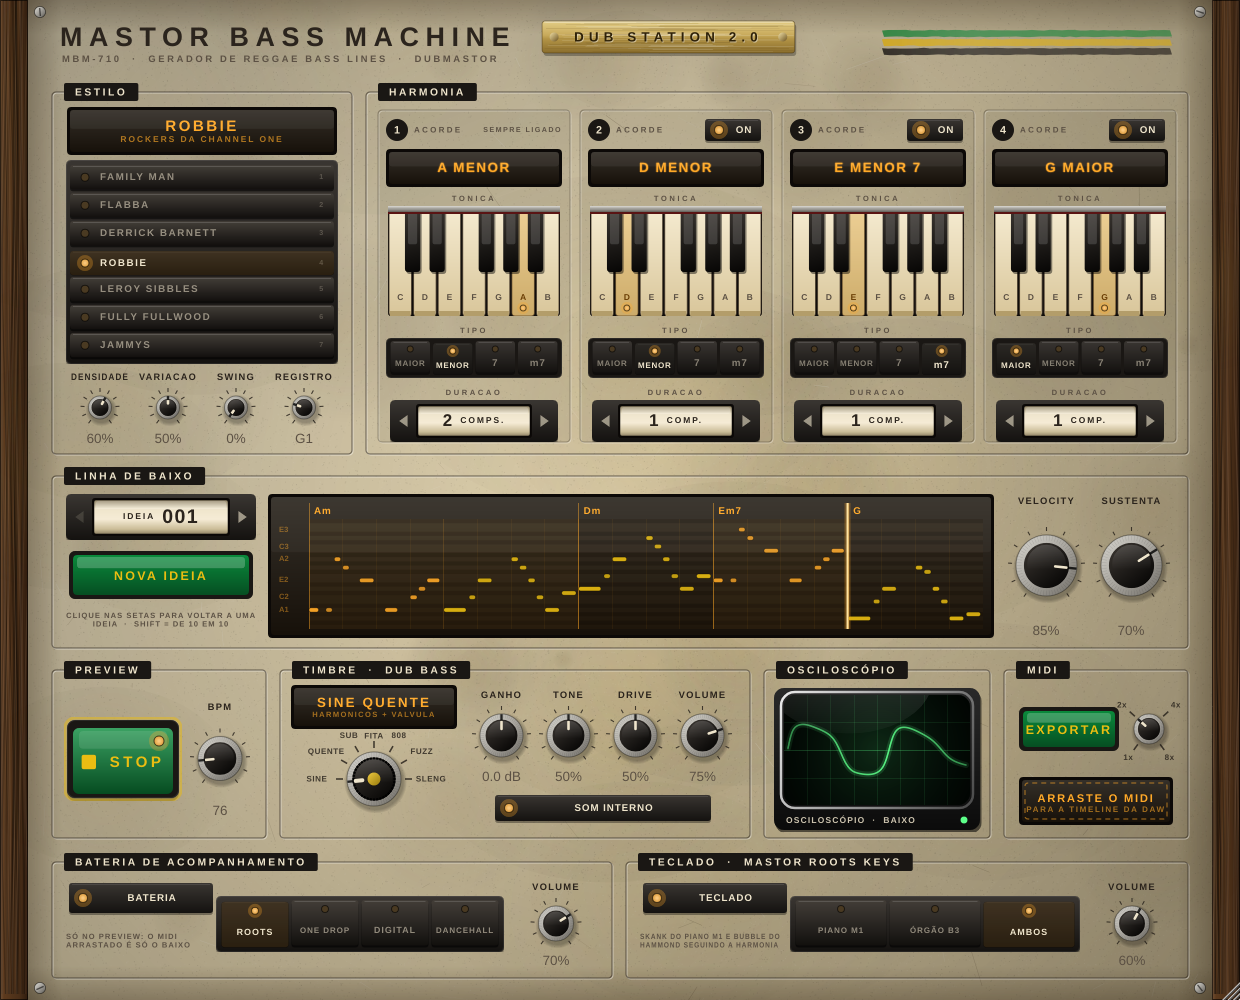
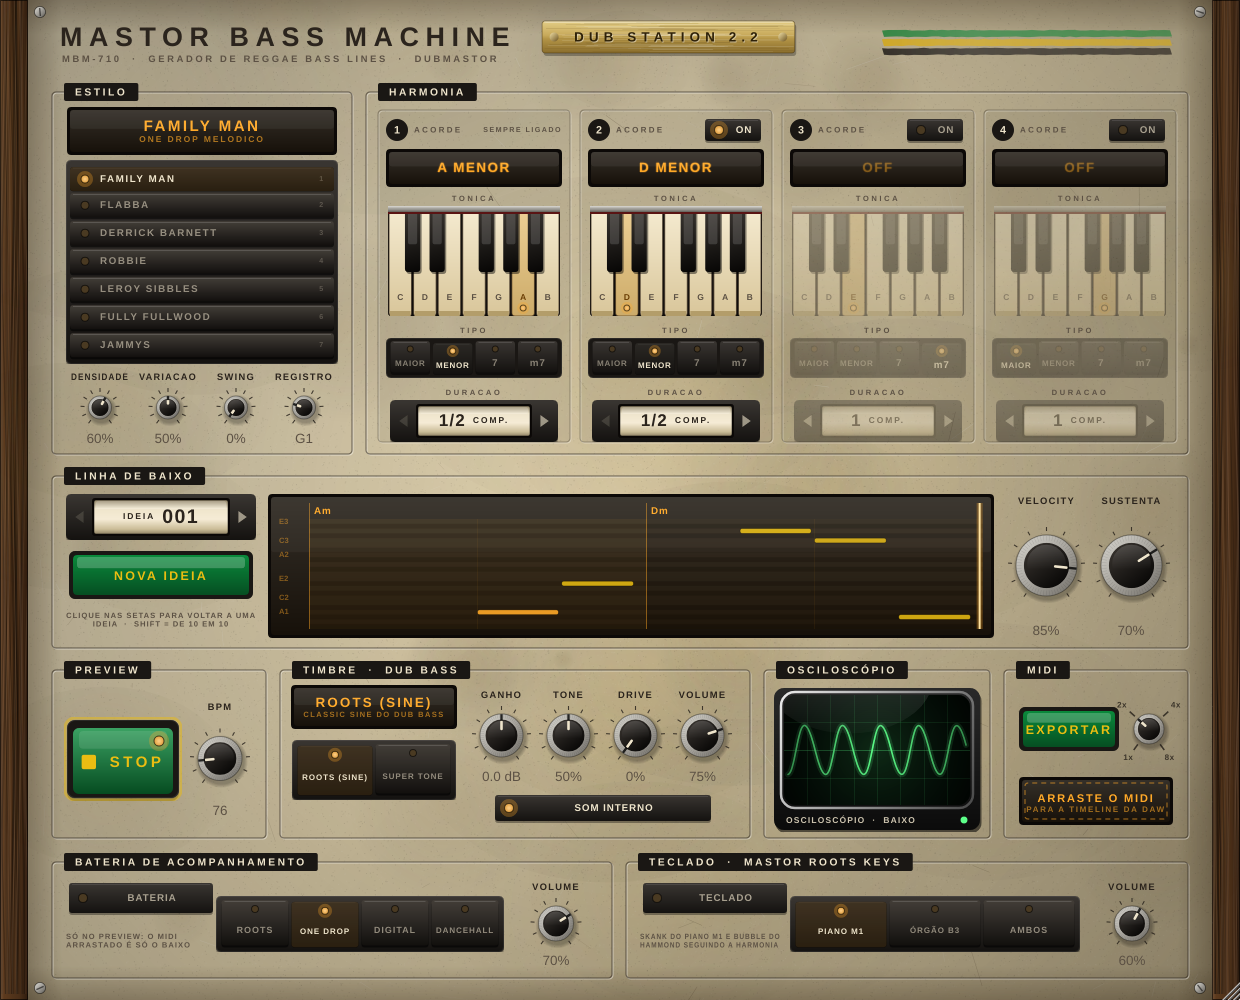
Bass Machine 2.2: preview com o Dub Bass 1.3 de fábrica, timbres Roots (Sine) e Super Tone
- Timbre do preview corrigido para os valores iniciais do Dub Bass 1.3: Classic Sine
  (Harm 2 15 %, Harm 3 8 %, Glide 20 ms), envelope 3 / 600 ms / 85 % / 180 ms,
  cutoff 900 Hz, ressonância 0,8, válvula/saturação e reverb desligados, maximizer +3 dB
- Seletor de timbre com só duas teclas: ROOTS (SINE) e SUPER TONE (modo novo do Dub Bass)
- DRIVE começa em 0, como a válvula do Dub Bass
- Padrão de início: só dois acordes ligados (Am e Dm), ambos de 1/2 compasso
- Teste cobre o padrão de início; versão, README, notas e imagem atualizados

Claude-Session: https://claude.ai/code/session_01DJAeyZbiJ7iwjCqM3GUBFu

diff --git a/BassMachine/Source/DubBassTimbre.h b/BassMachine/Source/DubBassTimbre.h
@@ -23,21 +23,18 @@ struct DubBassPreset
     float driveDb, drvToneHz, drvMix;
 };
 
-enum TimbreId { ClassicSine, SineQuente, SubPuro, FitaRoots, Eight08, Fuzz808, SlengTeng, NumTimbres };
+enum TimbreId { RootsSine, SuperTone, NumTimbres };
 
+// Os dois timbres com os valores iniciais do Dub Bass 1.3: Harm 2 15 %, Harm 3 8 %, Glide 20 ms,
+// ataque 3 ms, decay 600 ms, sustain 85 %, release 180 ms, cutoff 900 Hz, ressonância 0,8,
+// válvula (saturação) e reverb desligados, EQ plano, sem bass boost, maximizer +3 dB / teto -0,3 dB.
 inline const DubBassPreset& timbre (int i)
 {
     using M = BassVoice::Mode;
     static const DubBassPreset t[NumTimbres] = {
-        //  nome            descrição                        modo            h2     h3     808p   808t   A     D      S      R      cutoff  reso  tipo drive tone   mix
-        { "CLASSIC SINE",  "PADRAO DO DUB BASS",  M::ClassicSine, 0.15f, 0.08f, 12.0f, 70.0f, 3.0f, 600.0f, 0.85f, 180.0f, 900.0f, 0.8f, 0, 6.0f,  5000.0f, 0.50f },
-        { "SINE QUENTE",   "HARMONICOS + VALVULA",   M::ClassicSine, 0.45f, 0.25f, 12.0f, 70.0f, 3.0f, 600.0f, 0.80f, 160.0f, 1400.0f, 0.9f, 0, 12.0f, 4000.0f, 0.60f },
-        { "SUB PURO",      "SENOIDE LIMPA, SEM DRIVE", M::ClassicSine, 0.0f,  0.0f,  12.0f, 70.0f, 5.0f, 800.0f, 0.95f, 200.0f, 320.0f, 0.7f, 0, 0.0f,  5000.0f, 0.00f },
-        { "FITA ROOTS",    "SATURACAO DE FITA", M::ClassicSine, 0.30f, 0.15f, 12.0f, 70.0f, 2.0f, 420.0f, 0.60f, 140.0f, 700.0f, 1.2f, 1, 10.0f, 3000.0f, 0.70f },
-        { "808",           "DROP DE PITCH",     M::Eight08,     0.10f, 0.05f, 12.0f, 70.0f, 1.0f, 600.0f, 0.0f,  180.0f, 2000.0f, 0.8f, 0, 6.0f,  5000.0f, 0.50f },
-        { "808 FUZZ",      "808 CURTO COM FUZZ",            M::Eight08,     0.10f, 0.05f, 7.0f,  40.0f, 1.0f, 350.0f, 0.0f,  120.0f, 3000.0f, 0.8f, 2, 9.0f,  3500.0f, 0.45f },
-        // teclado Casio de 1985: senoide + 3º harmônico quadrada no FUZZ, ataque seco e decaimento curto
-        { "SLENG TENG",    "TECLADO DIGITAL 85 (JAMMYS)",   M::ClassicSine, 0.0f,  0.60f, 12.0f, 70.0f, 1.0f, 300.0f, 0.55f, 60.0f, 1800.0f, 0.9f, 2, 18.0f, 6000.0f, 1.00f },
+        //  nome            descrição                         modo            h2     h3     808p   808t   A     D       S      R       cutoff  reso  tipo drive tone     mix
+        { "ROOTS (SINE)",  "CLASSIC SINE DO DUB BASS",       M::ClassicSine, 0.15f, 0.08f, 12.0f, 70.0f, 3.0f, 600.0f, 0.85f, 180.0f, 900.0f, 0.8f, 0, 6.0f, 5000.0f, 0.50f },
+        { "SUPER TONE",    "DIGITAL KING JAMMY (DUB BASS)",  M::SuperTone,   0.15f, 0.08f, 12.0f, 70.0f, 3.0f, 600.0f, 0.85f, 180.0f, 900.0f, 0.8f, 0, 6.0f, 5000.0f, 0.50f },
     };
     return t[std::clamp (i, 0, NumTimbres - 1)];
 }
@@ -133,14 +130,13 @@ private:
         vp.attackMs = p.attackMs; vp.decayMs = p.decayMs; vp.sustain = p.sustain; vp.releaseMs = p.releaseMs;
         voice.setParams (vp);
 
-        // TONE: ±1,5 oitava no cutoff do timbre; DRIVE: 0..2x o drive do timbre (0,5 = como no Dub Bass)
+        // TONE: ±1,5 oitava no cutoff do Dub Bass (50 % = 900 Hz). DRIVE: a válvula do Dub Bass
+        // (TUBE, 6 dB, mix 50 %) começa desligada como nele; o knob liga e leva até 24 dB.
         const float cut = juce::jlimit (40.0f, (float) sr * 0.45f, p.cutoff * std::pow (2.0f, (toneKnob - 0.5f) * 3.0f));
         filter.setCutoffFrequency (cut);
         filter.setResonance (p.reso);
-        const float extra = juce::jmax (0.0f, (driveKnob - 0.5f) * 24.0f);
-        const float db = p.driveDb * juce::jmin (1.0f, driveKnob * 2.0f) + extra;
-        driveGain = juce::Decibels::decibelsToGain (juce::jmin (36.0f, db));
-        mix = (driveKnob <= 0.001f) ? 0.0f : juce::jmax (p.drvMix, driveKnob > 0.5f ? 0.5f : 0.0f);
+        driveGain = juce::Decibels::decibelsToGain (driveKnob * 24.0f);
+        mix = driveKnob <= 0.001f ? 0.0f : p.drvMix;
         drvType = p.drvType;
         drvTone = p.drvToneHz;
     }

diff --git a/BassMachine/Source/PluginProcessor.cpp b/BassMachine/Source/PluginProcessor.cpp
@@ -25,11 +25,11 @@ juce::AudioProcessorValueTreeState::ParameterLayout BassMachineProcessor::create
     for (int s = 0; s < mbm::NumStyles; ++s) styles.add (mbm::styleName (s));
     for (int t = 0; t < mbm::NumTimbres; ++t) timbres.add (mbm::timbre (t).name);
 
-    // Harmonia padrão: Am (2 comp.) | Dm (1) | Em7 (1) | G (desligado)
+    // Harmonia padrão: Am (1/2 comp.) | Dm (1/2 comp.); acordes 3 e 4 desligados
     const int  defRoot[numSlots] = { 9, 2, 4, 7 };
     const int  defQual[numSlots] = { mbm::Min, mbm::Min, mbm::Min7, mbm::Maj };
-    const int  defDur [numSlots] = { 2, 1, 1, 1 };
-    const bool defOn  [numSlots] = { true, true, true, false };
+    const int  defDur [numSlots] = { 0, 0, 1, 1 };   // 1/2 compasso cada
+    const bool defOn  [numSlots] = { true, true, false, false };
 
     for (int i = 0; i < numSlots; ++i)
     {
@@ -57,11 +57,11 @@ juce::AudioProcessorValueTreeState::ParameterLayout BassMachineProcessor::create
 
     // som interno
     layout.add (std::make_unique<AudioParameterBool>   (ParameterID { "sound", 1 }, "Som interno", true));
-    layout.add (std::make_unique<AudioParameterChoice> (ParameterID { "timbre", 1 }, "Timbre", timbres, mbm::ClassicSine));
+    layout.add (std::make_unique<AudioParameterChoice> (ParameterID { "timbre", 1 }, "Timbre", timbres, mbm::RootsSine));
     layout.add (std::make_unique<AudioParameterFloat>  (ParameterID { "inGain", 1 }, "Ganho de entrada", NormalisableRange<float> (-12.0f, 12.0f, 0.1f), 0.0f,
                                                         AudioParameterFloatAttributes().withLabel ("dB")));
     layout.add (std::make_unique<AudioParameterFloat>  (ParameterID { "tone", 1 }, "Tone", 0.0f, 1.0f, 0.5f));
-    layout.add (std::make_unique<AudioParameterFloat>  (ParameterID { "drive", 1 }, "Drive", 0.0f, 1.0f, 0.5f));
+    layout.add (std::make_unique<AudioParameterFloat>  (ParameterID { "drive", 1 }, "Drive", 0.0f, 1.0f, 0.0f));
     layout.add (std::make_unique<AudioParameterFloat>  (ParameterID { "volume", 1 }, "Volume", 0.0f, 1.0f, 0.75f));
 
     // acompanhamento do preview

diff --git a/BassMachine/Source/PluginEditor.cpp b/BassMachine/Source/PluginEditor.cpp
@@ -2,7 +2,7 @@
 #include <tuple>
 
 #ifndef JucePlugin_VersionString
- #define JucePlugin_VersionString "2.1.0"
+ #define JucePlugin_VersionString "2.2.0"
 #endif
 static juce::String versionShort() { return juce::String (JucePlugin_VersionString).upToLastOccurrenceOf (".", false, false); }
 
@@ -883,9 +883,12 @@ BassMachinePanel::BassMachinePanel (BassMachineProcessor& p) : proc (p), dragZon
     addAndMakeVisible (*play);
     setupKnob (bpm, "bpm", "BPM");
 
-    setupKnob (timbre, "timbre", {}, "switch");
-    timbre.slider.setTextBoxStyle (juce::Slider::NoTextBox, false, 0, 0);
-    timbre.label.setVisible (false);
+    {
+        juce::StringArray tnames;
+        for (int t = 0; t < mbm::NumTimbres; ++t) tnames.add (mbm::timbre (t).name);
+        timbreKeys = std::make_unique<InterlockKeys> (*proc.apvts.getParameter ("timbre"), tnames, false);
+        addAndMakeVisible (*timbreKeys);
+    }
     setupKnob (inGain, "inGain", "GANHO");
     inGain.slider.textFromValueFunction = [] (double v) { return (v > 0.05 ? "+" : "") + juce::String (v, 1) + " dB"; };
     inGain.slider.setDoubleClickReturnValue (true, 0.0);
@@ -1264,10 +1267,7 @@ void BassMachinePanel::renderBackground()
 
     // escalas
 
-    {
-        juce::StringArray labels { "SINE", "QUENTE", "SUB", "FITA", "808", "FUZZ", "SLENG" };
-        drawKnobScale (g, timbre.slider, mbm::NumTimbres, labels, 44.0f);
-    }
+
     for (auto* k : { &density, &variation, &swing, &base, &velocity, &gate, &bpm, &inGain, &tone, &drive, &volume, &drumVol, &keysVol })
         drawKnobScale (g, k->slider, 11);
     g.setColour (colours::inkSoft);
@@ -1415,7 +1415,8 @@ void BassMachinePanel::resized()
         a.removeFromBottom (8);
         auto left = a.removeFromLeft (164);
         timbreDisplay = left.removeFromTop (38).reduced (2, 0);
-        timbre.slider.setBounds (left.withTrimmedTop (2));
+        left.removeFromTop (14);
+        timbreKeys->setBounds (left.removeFromTop (60));
         a.removeFromLeft (12);
         auto knobs = a.removeFromTop (96);
         const int kw = knobs.getWidth() / 4;

diff --git a/BassMachine/tests/snapshot.cpp b/BassMachine/tests/snapshot.cpp
@@ -1,6 +1,6 @@
 // Renderiza a interface do Bass Machine num PNG (sem DAW), com o loop tocando para o visor e o osciloscópio:
 //   cmake -B build-snap -DBASSMACHINE_SNAPSHOT=ON -DBASSMACHINE_PLUGIN=OFF && cmake --build build-snap --target BassMachineSnapshot
-//   ./build-snap/.../BassMachineSnapshot docs/interface.png [estilo 0-6] [timbre 0-6] [escala] [wav] [bateria 0-3] [teclado 0-2]
+//   ./build-snap/.../BassMachineSnapshot docs/interface.png [estilo 0-6] [timbre 0-1] [escala] [wav] [bateria 0-3] [teclado 0-2]
 #include <juce_audio_utils/juce_audio_utils.h>
 #include "../Source/PluginProcessor.h"
 #include "../Source/PluginEditor.h"
@@ -15,7 +15,6 @@ int main (int argc, char** argv)
     auto set = [&] (const char* id, float v) { if (auto* p = proc.apvts.getParameter (id)) p->setValueNotifyingHost (p->convertTo0to1 (v)); };
     if (argc > 2) set ("style",  (float) juce::String (argv[2]).getIntValue());
     if (argc > 3) set ("timbre", (float) juce::String (argv[3]).getIntValue());
-    set ("on3", 1.0f);
     // 6º e 7º argumentos: estilo da bateria (0-3) e instrumento do teclado (0-2); -1 = desligado
     if (argc > 6 && juce::String (argv[6]).getIntValue() >= 0) { set ("drumsOn", 1.0f); set ("drumStyle", (float) juce::String (argv[6]).getIntValue()); }
     if (argc > 7 && juce::String (argv[7]).getIntValue() >= 0) { set ("keysOn", 1.0f);  set ("keysMode",  (float) juce::String (argv[7]).getIntValue()); }

diff --git a/BassMachine/tests/engine_test.cpp b/BassMachine/tests/engine_test.cpp
@@ -94,6 +94,15 @@ int main()
         }
     }
 
+    // padrão de início do plugin: Am e Dm de meio compasso cada (loop de 1 compasso)
+    for (int style = 0; style < NumStyles; ++style)
+    {
+        Settings s; s.style = style;
+        double L = 0;
+        const auto ev = buildLoop ({ { 9, Min, 2 }, { 2, Min, 2 } }, s, L);
+        CHECK (L == 4.0 && ev.size() >= 2, "%s: padrao de inicio (2 x 1/2 compasso)", styleName (style));
+    }
+
     // um acorde só, meio compasso, e nenhum acorde
     {
         Settings s; double L = 0;

diff --git a/BassMachine/Source/PluginEditor.h b/BassMachine/Source/PluginEditor.h
@@ -197,11 +197,11 @@ private:
     BassLookAndFeel lnf;
 
     std::array<ChordModule, BassMachineProcessor::numSlots> mods;
-    std::unique_ptr<InterlockKeys> styleKeys, drumKeys, keysKeys;
+    std::unique_ptr<InterlockKeys> styleKeys, drumKeys, keysKeys, timbreKeys;
     Knob density, variation, swing, base;
     Knob velocity, gate;
     Knob bpm;
-    Knob timbre, inGain, tone, drive, volume;
+    Knob inGain, tone, drive, volume;
     Knob reps;
     Toggle sound, drumsOn, keysOn;
     Knob drumVol, keysVol;

diff --git a/README.md b/README.md
@@ -22,7 +22,7 @@ bubble, já alinhados, de 4 a 64 compassos) para a timeline. Um projeto começa 
 | **DubMastor Dub Chords 1.3** | Instrumento / gerador MIDI: escolha até 4 acordes (teclado mecânico, maior/menor, inversões com sugestão automática, contador de compassos) e ele toca o skank de piano M1 com as duas mãos e o bubble de Hammond no andamento da DAW; arraste o MIDI colorido por acorde para a timeline | [⬇ macOS](https://github.com/dubmastor/DubMastor-DubStation-/releases/download/DubChords-1.3/DubMastorDubChords-macOS.zip) | [⬇ Windows](https://github.com/dubmastor/DubMastor-DubStation-/releases/download/DubChords-1.3/DubMastorDubChords-Windows.zip) | [DubChords/](DubChords/) |
 | **Dub Bass - Dub Station 1.4** | Instrumento: baixo de reggae Bass (senoide), Super Tone (digital King Jammy) ou 808, envelope gráfico, saturação com válvula animada ou fita de rolo, EQ editável na tela, reverb, bass boost em 60 Hz, teclado C1–C4 e maximizer com VU digital estilo Ozone | [⬇ macOS](https://github.com/dubmastor/DubMastor-DubStation-/releases/download/DubBass-1.4/DubBass-macOS.zip) | [⬇ Windows](https://github.com/dubmastor/DubMastor-DubStation-/releases/download/DubBass-1.4/DubBass-Windows.zip) | [DubBass/](DubBass/) |
 | **DubMastor Dub Drums 1.1** | Instrumento / gerador MIDI: esqueleto da bateria de reggae (One Drop, Rockers, Steppa) com chave de baterista (Style Scott, Santa Davis, Carlton Barrett) com a assinatura de hi-hat e as viradas de cada um, caixa/aro, virada de intro, kit anos 70 ou digital (King Jammy / Sleng Teng), MIDI colorido por compasso e mapa de notas | [⬇ macOS](https://github.com/dubmastor/DubMastor-DubStation-/releases/download/DubDrums-1.1/DubMastorDubDrums-macOS.zip) | [⬇ Windows](https://github.com/dubmastor/DubMastor-DubStation-/releases/download/DubDrums-1.1/DubMastorDubDrums-Windows.zip) | [DubDrums/](DubDrums/) |
-| **Mastor Bass Machine MBM-710 2.1** | Instrumento / gerador de reggae bass lines em MIDI: botoeira com 7 baixistas (Family Man, Flabba, Derrick Barnett, Robbie, Leroy Sibbles, Fully Fullwood, Jammys/Sleng Teng) sobre até 4 acordes; preview com os timbres do Dub Bass, bateria de acompanhamento (Roots, One Drop, Digital, Dancehall) e teclado do Roots Keys; arraste o MIDI para a timeline | [⬇ macOS](https://github.com/dubmastor/DubMastor-DubStation-/releases/download/BassMachine-2.1/MastorBassMachine-macOS.zip) | [⬇ Windows](https://github.com/dubmastor/DubMastor-DubStation-/releases/download/BassMachine-2.1/MastorBassMachine-Windows.zip) | [BassMachine/](BassMachine/) |
+| **Mastor Bass Machine MBM-710 2.2** | Instrumento / gerador de reggae bass lines em MIDI: botoeira com 7 baixistas (Family Man, Flabba, Derrick Barnett, Robbie, Leroy Sibbles, Fully Fullwood, Jammys/Sleng Teng) sobre até 4 acordes; preview com os timbres do Dub Bass (Roots Sine e Super Tone), bateria de acompanhamento (Roots, One Drop, Digital, Dancehall) e teclado do Roots Keys; arraste o MIDI para a timeline | [⬇ macOS](https://github.com/dubmastor/DubMastor-DubStation-/releases/download/BassMachine-2.2/MastorBassMachine-macOS.zip) | [⬇ Windows](https://github.com/dubmastor/DubMastor-DubStation-/releases/download/BassMachine-2.2/MastorBassMachine-Windows.zip) | [BassMachine/](BassMachine/) |
 | **Mastor Dub Horns 1.1** | Instrumento: naipe de metais anos 70 (trompete, flugel, saxes e trombone) com harmonia no tom, timbres de estúdio jamaicano, Mastor Tape Echo, EQ gráfico de 10 bandas com Filtro Tubby e frases MIDI (ataques estilo Dean Fraser e introduções) com notas escolhidas por você; também [toca no navegador](https://dubmastor.github.io/DubMastor-DubStation-/horns/) | [⬇ macOS](https://github.com/dubmastor/DubMastor-DubStation-/releases/download/MastorDubHorns-1.1/MastorDubHorns-macOS.zip) | [⬇ Windows](https://github.com/dubmastor/DubMastor-DubStation-/releases/download/MastorDubHorns-1.1/MastorDubHorns-Windows.zip) | [MastorDubHorns/](MastorDubHorns/) |
 | **Mastor Fone 1.6** | Efeito de voz: rádio AM, telefone antigo e megafone, com o eco de fita e o maximizer do Big Knob, no visual Dub Station | [⬇ macOS](https://github.com/dubmastor/DubMastor-DubStation-/releases/latest/download/MastorFone-macOS.zip) | [⬇ Windows](https://github.com/dubmastor/DubMastor-DubStation-/releases/latest/download/MastorFone-Windows.zip) | [MastorFone/](MastorFone/) |
 | **Dub Station 2.6 (FitaEco TE-12)** | Eco de fita de 3 cabeças + reverb de mola, com EQ gráfico | [⬇ macOS](https://github.com/dubmastor/DubMastor-DubStation-/releases/latest/download/DubStation26-macOS.zip) | [⬇ Windows](https://github.com/dubmastor/DubMastor-DubStation-/releases/latest/download/DubStation26-Windows.zip) | [DubStation21/](DubStation21/) |

diff --git a/BassMachine/README.md b/BassMachine/README.md
@@ -1,8 +1,8 @@
-# Mastor Bass Machine MBM-710 2.1 — Gerador de Reggae Bass Lines
+# Mastor Bass Machine MBM-710 2.2 — Gerador de Reggae Bass Lines
 
 ← [Voltar para a página inicial do repositório](../README.md)
 
-**[⬇ Windows](https://github.com/dubmastor/DubMastor-DubStation-/releases/download/BassMachine-2.1/MastorBassMachine-Windows.zip)** · **[⬇ macOS](https://github.com/dubmastor/DubMastor-DubStation-/releases/download/BassMachine-2.1/MastorBassMachine-macOS.zip)**
+**[⬇ Windows](https://github.com/dubmastor/DubMastor-DubStation-/releases/download/BassMachine-2.2/MastorBassMachine-Windows.zip)** · **[⬇ macOS](https://github.com/dubmastor/DubMastor-DubStation-/releases/download/BassMachine-2.2/MastorBassMachine-macOS.zip)**
 
 ![Interface do Bass Machine](docs/interface.png)
 
@@ -23,7 +23,7 @@ Teclas intertravadas como as de um rádio valvulado: apertar uma solta a outra.
 | **ROBBIE** | Robbie Shakespeare (Sly & Robbie) | Rockers da Channel One: sincopado, firme, quase mecânico, com o balanço do funk e do soul; oitavas e subidas cromáticas até o próximo acorde |
 | **LEROY SIBBLES** | Leroy Sibbles (Heptones, Studio One) | Linhas cantadas: notas esticadas, frases que descem pela escala, espaço, e cada nota um pouco atrás do tempo |
 | **FULLY FULLWOOD** | George "Fully" Fullwood (Soul Syndicate) | Riff de riddim dos anos 70: gancho melódico com anacruse de semicolcheia e salto de oitava, repetido como assinatura |
-| **JAMMYS** | King Jammy, *Sleng Teng* (1985) | O primeiro riddim digital: riff de teclado em semicolcheias, curto e staccato, em volta da tônica (combina com o timbre **SLENG TENG** e a bateria **DIGITAL**) |
+| **JAMMYS** | King Jammy, *Sleng Teng* (1985) | O primeiro riddim digital: riff de teclado em semicolcheias, curto e staccato, em volta da tônica (combina com o timbre **SUPER TONE** e a bateria **DIGITAL**) |
 
 | Controle | O que faz |
 |---|---|
@@ -34,7 +34,7 @@ Teclas intertravadas como as de um rádio valvulado: apertar uma solta a outra.
 
 ## HARMONIA
 Até 4 acordes: **TÔNICA** (teclado mecânico), **TIPO** (maior, menor, 7, m7), **DURAÇÃO** (1/2 a 8 compassos)
-e **ON** nos acordes 2 a 4. As notas de aproximação caem meio tom (ou um tom) da tônica que vem a seguir.
+e **ON** nos acordes 2 a 4. O plugin abre com **dois acordes ligados, Am e Dm, de 1/2 compasso cada**. As notas de aproximação caem meio tom (ou um tom) da tônica que vem a seguir.
 
 ## LINHA DE BAIXO
 | Controle | O que faz |
@@ -48,9 +48,9 @@ e **ON** nos acordes 2 a 4. As notas de aproximação caem meio tom (ou um tom) 
 | Controle | O que faz |
 |---|---|
 | **PLAY / STOP** | Toca o loop sem a DAW, no **BPM** do knob. Com a DAW tocando, segue o andamento dela |
-| **TIMBRE** | Os timbres do **Dub Bass**: CLASSIC SINE, SINE QUENTE, SUB PURO, FITA ROOTS, 808, 808 FUZZ e **SLENG TENG** (teclado digital de 1985). O preview usa a voz, o filtro, as saturações TUBE / TAPE / FUZZ e o maximizer do Dub Bass |
+| **TIMBRE** | Duas teclas com os timbres do **Dub Bass 1.3**: **ROOTS (SINE)** (Classic Sine) e **SUPER TONE** (o baixo digital da era King Jammy). O preview usa a mesma voz, filtro e maximizer do Dub Bass com os valores iniciais dele: Harm 2 15 %, Harm 3 8 %, Glide 20 ms, ataque 3 ms, decay 600 ms, sustain 85 %, release 180 ms, cutoff 900 Hz, ressonância 0,8, **sem saturação e sem reverb**, EQ plano, sem bass boost, maximizer +3 dB com teto −0,3 dB |
 | **GANHO** | Ganho de entrada (−12 a +12 dB) antes da saturação e do maximizer. Duplo clique volta a 0 dB |
-| **TONE / DRIVE / VOLUME** | Cutoff (±1,5 oitava), saturação (50% = como no Dub Bass) e volume geral do preview |
+| **TONE / DRIVE / VOLUME** | Cutoff (±1,5 oitava; 50 % = 900 Hz, como no Dub Bass), saturação da válvula TUBE do Dub Bass (começa em 0 = desligada, como nele) e volume geral do preview |
 | **SOM INTERNO** | Desligue quando mandar o MIDI para o seu próprio baixo |
 | **OSCILOSCÓPIO** | Tubo verde com a onda do baixo |
 

diff --git a/BassMachine/RELEASE_NOTES.md b/BassMachine/RELEASE_NOTES.md
@@ -1,4 +1,11 @@
-# Mastor Bass Machine MBM-710 — 2.1 · Gerador de Reggae Bass Lines
+# Mastor Bass Machine MBM-710 — 2.2 · Gerador de Reggae Bass Lines
+
+- Preview com o som do **Dub Bass 1.3** e os valores iniciais dele: Classic Sine (Harm 2 15 %, Harm 3 8 %), envelope 3 / 600 ms / 85 % / 180 ms, cutoff 900 Hz, ressonância 0,8, **sem saturação e sem reverb**
+- Seletor de timbre com só duas teclas: **ROOTS (SINE)** e **SUPER TONE** (o baixo digital King Jammy do Dub Bass)
+- DRIVE começa em 0 (válvula desligada, como no Dub Bass)
+- Padrão de início: **dois acordes ligados, Am e Dm, de 1/2 compasso cada**
+
+## 2.1
 
 - Bateria de acompanhamento com o kit acústico do **Dub Drums 1.1**: bumbo abafado de estúdio jamaicano dos anos 70 (no lugar do bumbo com cara de 808) e caixa afinada alta com estalo de aro
 
